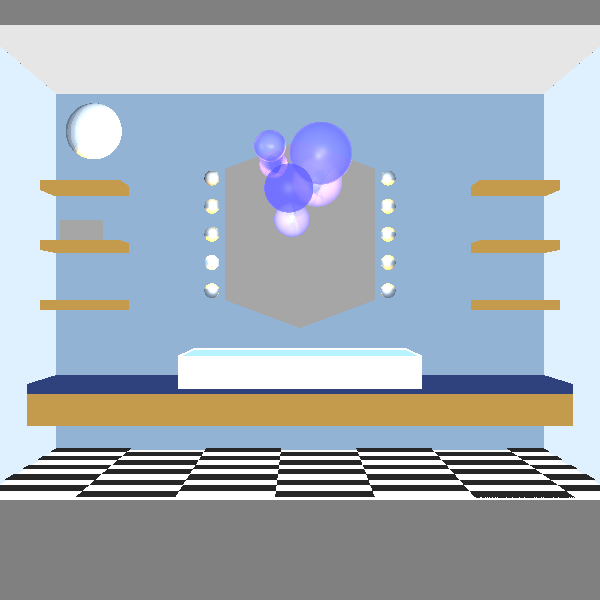
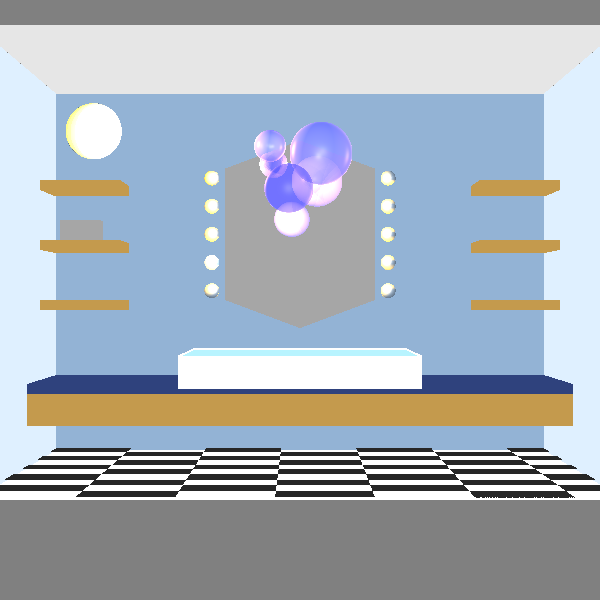
bla

diff --git a/unitTests/renderer/Project1.java b/unitTests/renderer/Project1.java
@@ -447,7 +447,8 @@ public class Project1 {
                 .setkL(0.001).setkQ(0.0002));
         scene.lights.add(new PointLight(new Color(1000, 600, 0), new Point( 57, -400, -195))
                 .setkL(0.001).setkQ(0.0002));
-
+        scene.lights.add(new PointLight(new Color(1000,600,0),new Point(120, -300, -110)).
+                        setkQ(0.00000002).setkL(0.001));
 
 
 
